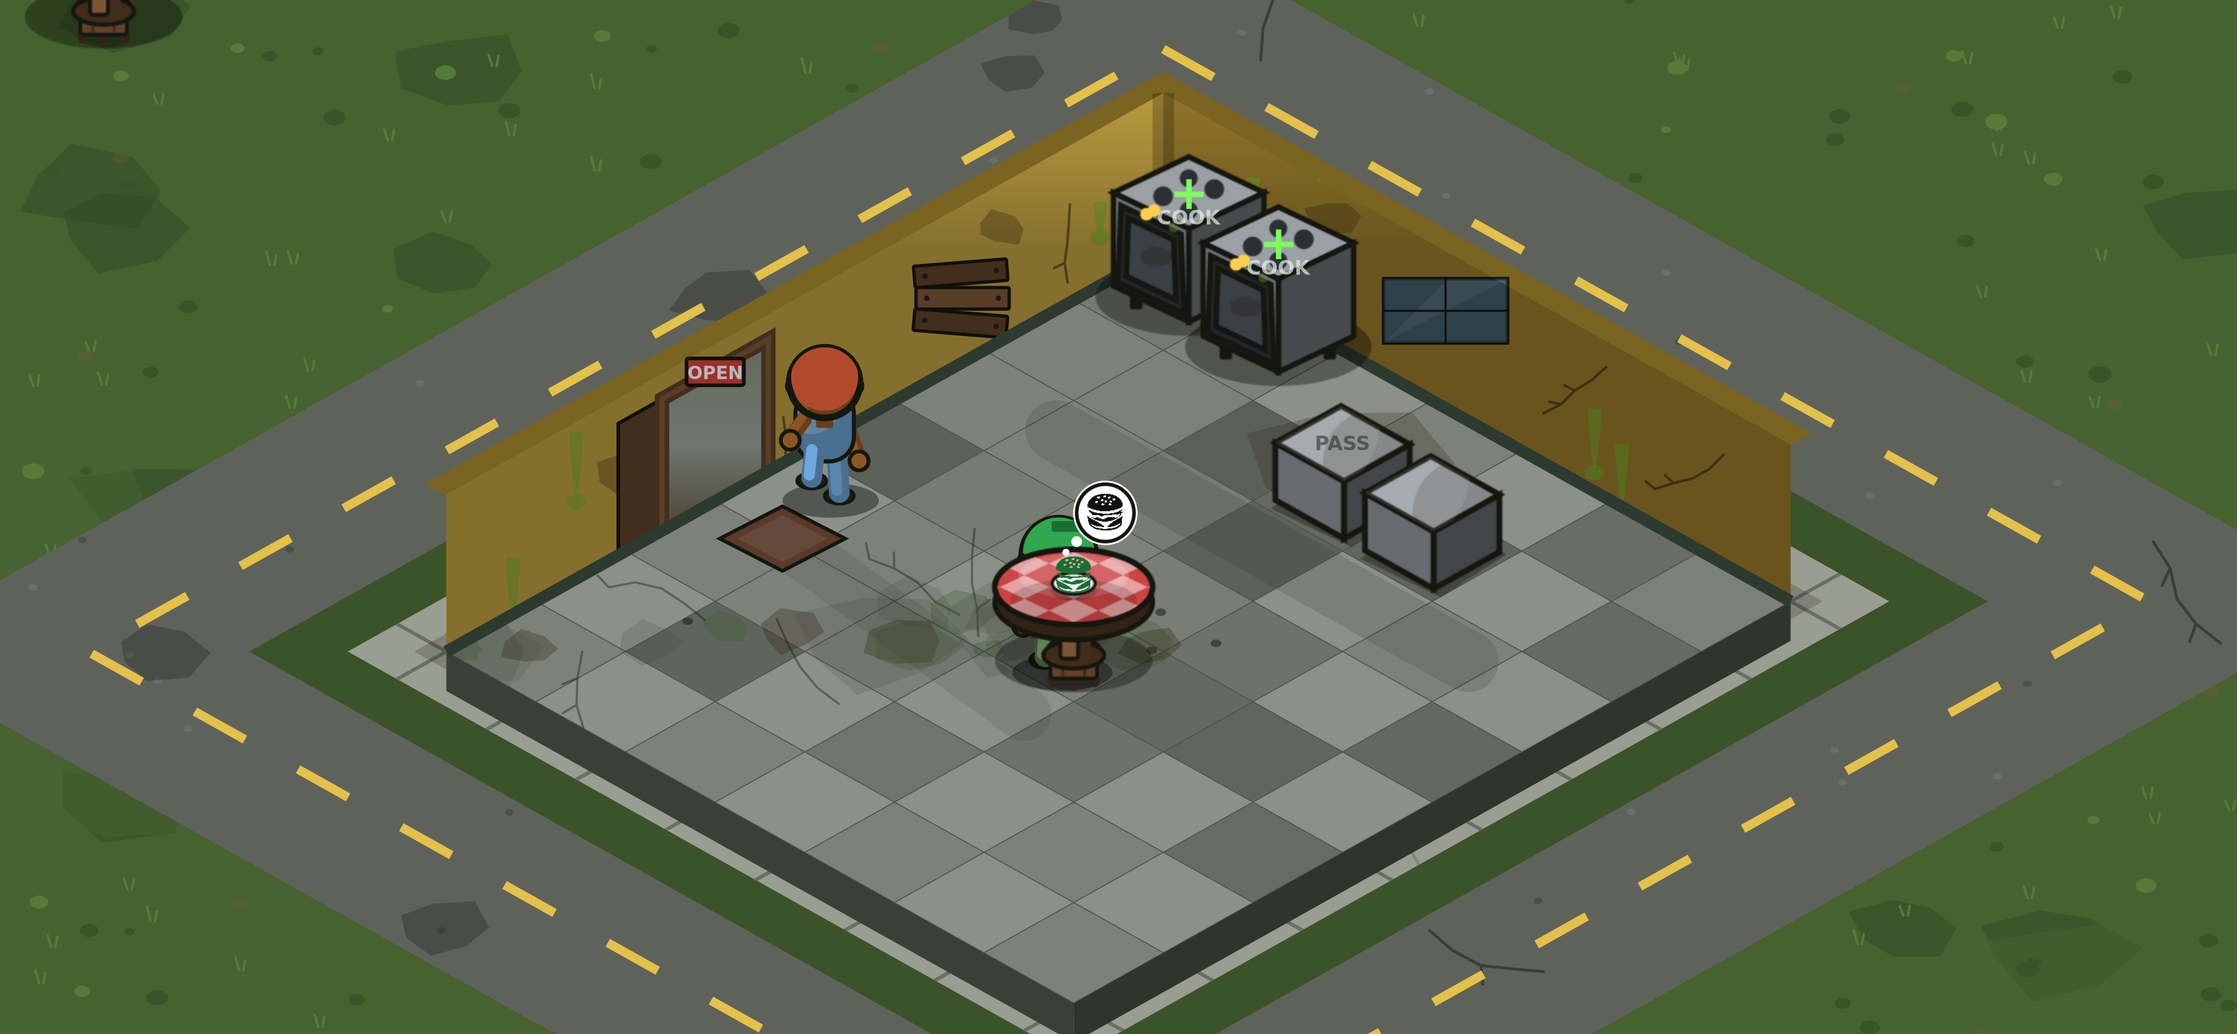
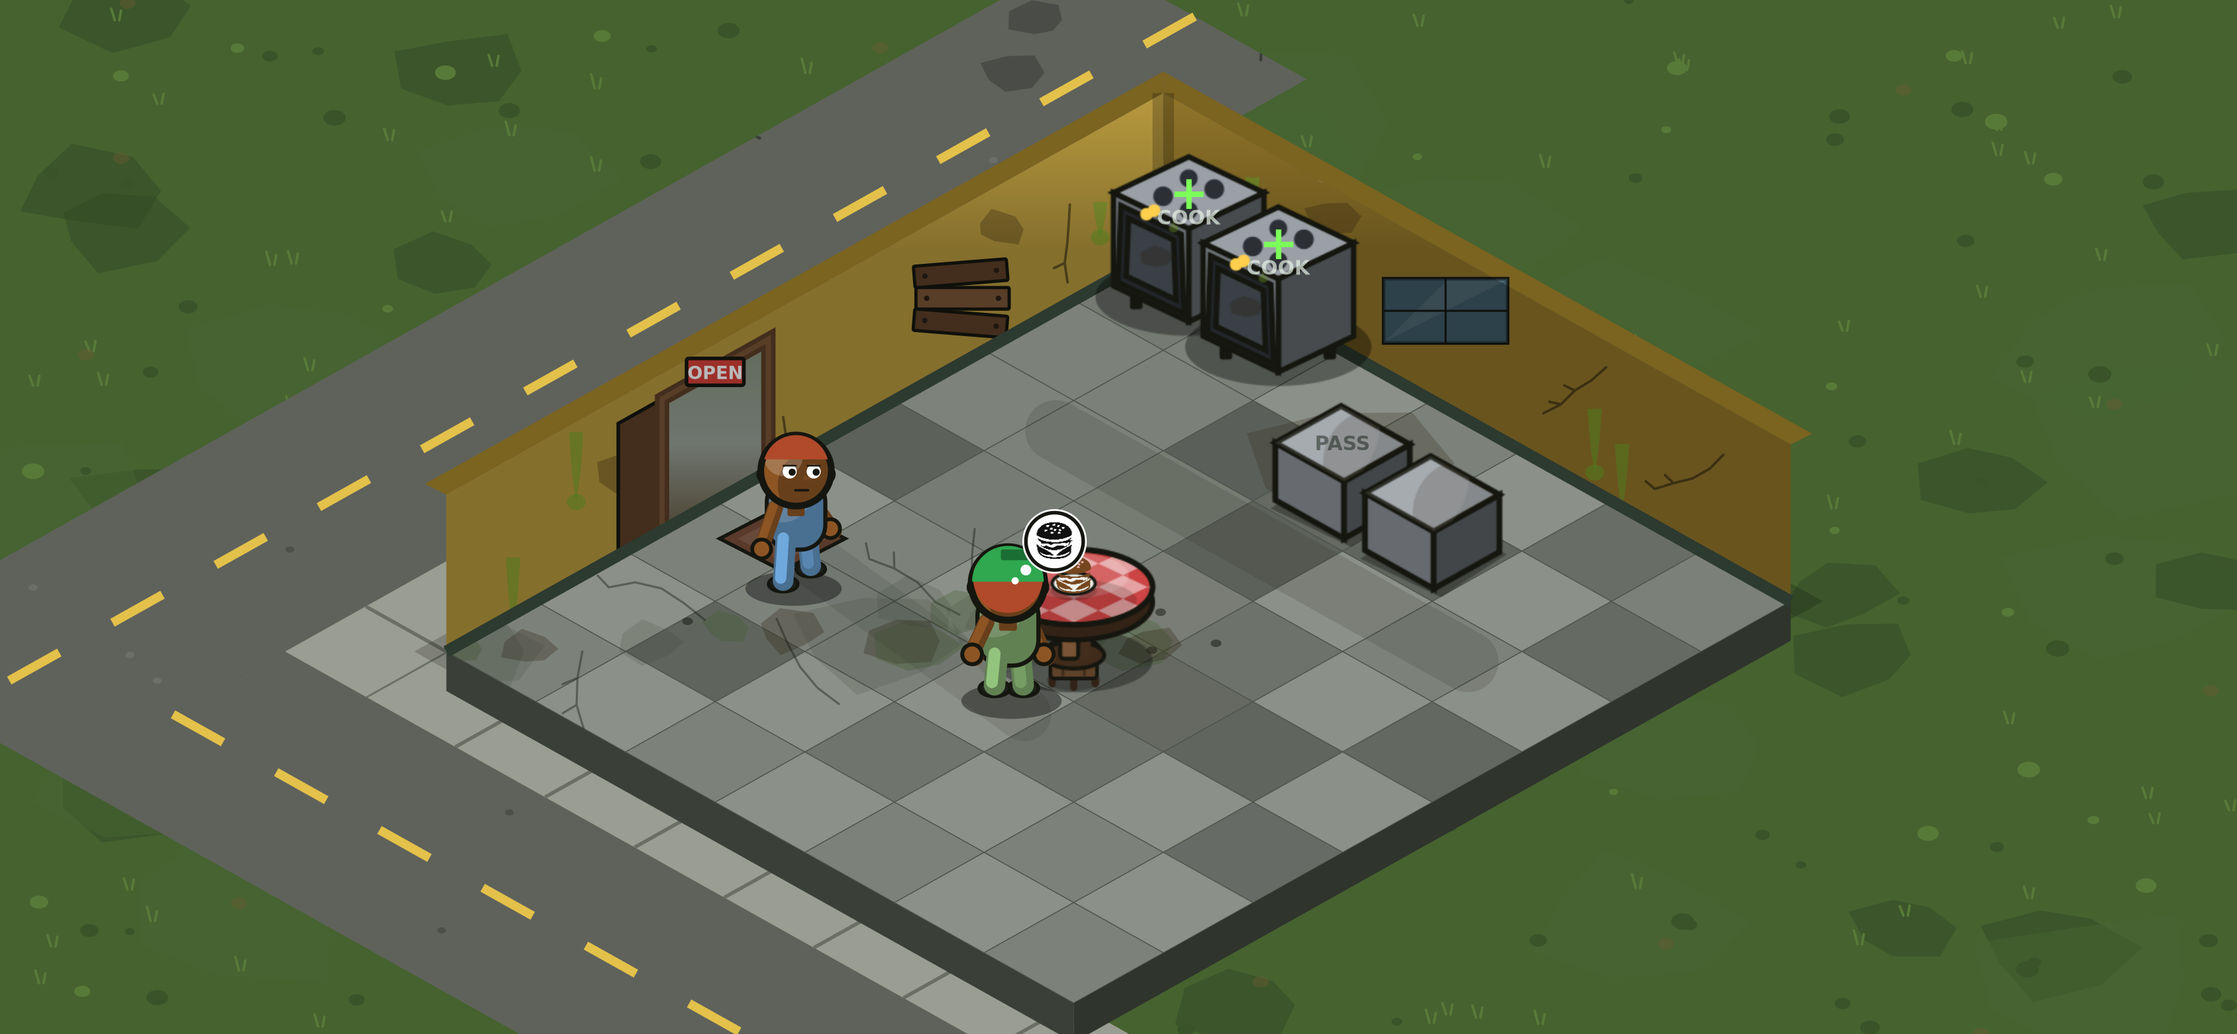
Corner-street map, chair-gap attachment rule, unique Brawler elite
- Exterior is now a street corner (roads on two sides, sidewalks between),
  with grass on the other sides as future expansion land — matches refs.
- Chairs sit on their own square south of their table with a visible gap;
  tables may pack side-by-side but each must keep one open chair side
  (chairState 'blocked' + layout warning). Starting tables respaced.
- New elite customer: Brawler — visually unique (gloves, mohawk, heavier
  build), $500 cash infect, Slugger zombie (atk 28, energy 150).
- Renderer: gloved-hand support in _char; single south-facing chair per
  table; natural depth sort for seated diners.
- Audit doc round 3: customer info cards (health cur/max, tip/atk stats,
  cash infect $500–$95k), raid sidewalk line-up + one-by-one deployment +
  ENERGIZE mid-raid recharge.
- Sprites rebaked, proofs reshot, 52/52 tests pass.

https://claude.ai/code/session_01PNHoqqSvj3UaeYPZXKA2ik

diff --git a/www/render.js b/www/render.js
@@ -130,10 +130,10 @@
     });
     world.stoves.forEach(function (st) { add(st.x + st.y + dvof(st.id), function () { self._stove(c, st, world, t, ui.selected && ui.selected.id === st.id); }); });
     if (!ui.edit) {
+      // diners now sit on the SOUTH chair square (in front of the table), so
+      // natural feet-position sorting handles them — no special-case depth
       world.customers.forEach(function (cu) {
-        var d = cu.x + cu.y, tb = (cu.table && (cu.state === 'waiting' || cu.state === 'eating' || cu.state === 'paying')) ? byTbId(world, cu.table) : null;
-        if (tb) d = tb.x + tb.y + dvof(tb.id) - 1;        // sit just behind our table
-        add(d, function () { self._customer(c, cu, world, t); });
+        add(cu.x + cu.y, function () { self._customer(c, cu, world, t); });
       });
       world.zombies.forEach(function (z) { if (!z.stored) add(z.x + z.y, function () { self._zombie(c, z, t); }); });
     }
@@ -234,26 +234,40 @@
       scatter(c, bb, 90, 13, function (x, y, r) { line(c, x, y, x - S * 0.02, y - S * 0.05 - r * S * 0.03); line(c, x + S * 0.025, y, x + S * 0.035, y - S * 0.055); });
       scatter(c, bb, 26, 17, function (x, y) { speck(c, x, y, S * 0.045, 'rgba(110,90,50,.4)'); });
     });
-    // road ring (asphalt): grain, cracks, oil patches — less perfect gray
-    c.fillStyle = C.road; this._planeRect(c, -T * 3.2, -T * 3.2, W + T * 3.2, H + T * 3.2); c.fill();
-    this._tex(c, function () { this._planeRect(c, -T * 3.2, -T * 3.2, W + T * 3.2, H + T * 3.2); }, function (bb) {
-      scatter(c, bb, 110, 21, function (x, y, r) { speck(c, x, y, S * 0.025, r > 0.5 ? C.roadD : '#6c6f68'); });
-      scatter(c, bb, 14, 41, function (x, y, r) { crackLine(c, x, y, S * 0.7, r * 6.28, S * 0.016, 'rgba(30,32,28,.55)'); });
-      scatter(c, bb, 10, 47, function (x, y, r) { stainBlob(c, x, y, S * (0.12 + r * 0.18), 'rgba(25,27,24,.3)'); });
-    });
-    // dashed centre line around the block
+    // CORNER STREET (per reference): roads run along TWO adjacent sides only —
+    // past the door wall (west) and along the front (south) — with sidewalk
+    // strips between the building and each road. The other sides stay grass:
+    // that's the open land the café expands into later.
+    var roadTex = function (x0, y0, x1, y1) {
+      c.fillStyle = C.road; self._planeRect(c, x0, y0, x1, y1); c.fill();
+      self._tex(c, function () { this._planeRect(c, x0, y0, x1, y1); }, function (bb) {
+        scatter(c, bb, 60, 21, function (x, y, r) { speck(c, x, y, S * 0.025, r > 0.5 ? C.roadD : '#6c6f68'); });
+        scatter(c, bb, 8, 41, function (x, y, r) { crackLine(c, x, y, S * 0.7, r * 6.28, S * 0.016, 'rgba(30,32,28,.55)'); });
+        scatter(c, bb, 6, 47, function (x, y, r) { stainBlob(c, x, y, S * (0.12 + r * 0.18), 'rgba(25,27,24,.3)'); });
+      });
+    };
+    roadTex(-T * 3.4, -T * 2.5, -T * 0.9, H + T * 3.4);            // west road (past the door wall)
+    roadTex(-T * 0.9, H + T * 0.9, W + T * 2.5, H + T * 3.4);      // south road (along the front)
+    // dashed centre line along each road
     c.save(); c.strokeStyle = C.roadLine; c.lineWidth = Math.max(2, S * 0.05); c.setLineDash([S * 0.32, S * 0.34]);
-    this._planeRect(c, -T * 2.0, -T * 2.0, W + T * 2.0, H + T * 2.0); c.stroke(); c.setLineDash([]); c.restore();
-    // grass verge
-    c.fillStyle = C.grassD; this._planeRect(c, -T * 1.1, -T * 1.1, W + T * 1.1, H + T * 1.1); c.fill();
-    // sidewalk ring with slab seams + cracks
-    c.fillStyle = C.walk; this._planeRect(c, -T * 0.55, -T * 0.55, W + T * 0.55, H + T * 0.55); c.fill();
-    this._tex(c, function () { this._planeRect(c, -T * 0.55, -T * 0.55, W + T * 0.55, H + T * 0.55); }, function (bb) {
-      c.strokeStyle = C.walkSeam; c.lineWidth = Math.max(1.2, S * 0.02);
-      for (var s = -1; s <= Math.ceil((W + T) / T) + 1; s++) { var p = self.project(s * T, -T); var q = self.project(s * T, H + T); line(c, p.x, p.y, q.x, q.y); var p2 = self.project(-T, s * T); var q2 = self.project(W + T, s * T); line(c, p2.x, p2.y, q2.x, q2.y); }
-      scatter(c, bb, 16, 33, function (x, y, r) { crackLine(c, x, y, S * 0.5, r * 6.28, S * 0.015, C.walkD); });
-    });
-    // a contact drop-shadow just inside the sidewalk so the building sits down
+    var l1a = this.project(-T * 2.15, -T * 2.5), l1b = this.project(-T * 2.15, H + T * 3.4);
+    c.beginPath(); c.moveTo(l1a.x, l1a.y); c.lineTo(l1b.x, l1b.y); c.stroke();
+    var l2a = this.project(-T * 0.9, H + T * 2.15), l2b = this.project(W + T * 2.5, H + T * 2.15);
+    c.beginPath(); c.moveTo(l2a.x, l2a.y); c.lineTo(l2b.x, l2b.y); c.stroke();
+    c.setLineDash([]); c.restore();
+    // sidewalk strips between the building and the two roads
+    var walkTex = function (x0, y0, x1, y1, vertical) {
+      c.fillStyle = C.walk; self._planeRect(c, x0, y0, x1, y1); c.fill();
+      self._tex(c, function () { this._planeRect(c, x0, y0, x1, y1); }, function (bb) {
+        c.strokeStyle = C.walkSeam; c.lineWidth = Math.max(1.2, S * 0.02);
+        if (vertical) { for (var s2 = Math.floor(y0 / T); s2 <= Math.ceil(y1 / T); s2++) { var pa = self.project(x0, s2 * T), pb = self.project(x1, s2 * T); line(c, pa.x, pa.y, pb.x, pb.y); } }
+        else { for (var s3 = Math.floor(x0 / T); s3 <= Math.ceil(x1 / T); s3++) { var pc2 = self.project(s3 * T, y0), pd = self.project(s3 * T, y1); line(c, pc2.x, pc2.y, pd.x, pd.y); } }
+        scatter(c, bb, 8, 33, function (x, y, r) { crackLine(c, x, y, S * 0.5, r * 6.28, S * 0.015, C.walkD); });
+      });
+    };
+    walkTex(-T * 0.9, -T * 0.9, 0, H + T * 0.9, true);             // west sidewalk
+    walkTex(0, H, W + T * 0.9, H + T * 0.9, false);                // south sidewalk
+    // a contact drop-shadow just inside the building edges so it sits down
     c.fillStyle = 'rgba(0,0,0,.18)'; this._planeRect(c, -T * 0.18, -T * 0.18, W + T * 0.18, H + T * 0.18); c.fill();
   };
   Renderer.prototype._walls = function (c) {
@@ -498,9 +512,10 @@
     if (this._selZ && tb.dirty && !tb.cleaning) this._hl(c, p.x, p.y + S * 0.08, S * 1.1, t || 0);
     if (!sel && this._blit(c, 'table_base', tb.x + vo.x, tb.y + vo.y)) return;   // sprite base (legs+chair+pedestal)
     c.fillStyle = 'rgba(0,0,0,.34)'; c.beginPath(); c.ellipse(p.x, y + S * 0.05, D.rx, D.ry * 0.85, 0, 0, 7); c.fill();   // contact shadow
-    // ONE chair per table (one dish = one diner): at the real SOUTH seat slot,
-    // exactly where the seated customer sits — visual capacity matches logic.
-    var q = this.project(tb.x + vo.x, tb.y + vo.y + 40);
+    // ONE chair per table, ATTACHED across a small gap on its own south square
+    // (like the reference) — you can always tell which chair belongs to which
+    // table, and side-by-side tables must keep this side open.
+    var q = this.project(tb.x + vo.x, tb.y + vo.y + 88);
     isoChair(c, q.x, q.y - lift, S, 0);
     // round pedestal base + column (lit left / dark right)
     c.fillStyle = shade(C.woodD, 0.7); c.beginPath(); c.ellipse(p.x, y + S * 0.02, S * 0.17, S * 0.075, 0, 0, 7); c.fill(); c.strokeStyle = C.out; c.lineWidth = S * 0.022; c.stroke();
@@ -750,7 +765,8 @@
     // 3. back arm (behind torso) + hand
     var armSwing = walk ? Math.sin(ph + Math.PI) * S * 0.06 : (cfg.hunch ? S * 0.03 : 0);
     limb(c, x + lean + S * 0.12, chestY + S * 0.03, x + lean + S * 0.2, chestY + S * 0.2 + armSwing, skin, skinD, S * 0.09);
-    hand(c, x + lean + S * 0.2, chestY + S * 0.21 + armSwing, S * 0.055, skin, skinD);
+    var gw = cfg.gloves ? S * 0.085 : S * 0.055, gc = cfg.gloves || skin, gd = cfg.gloves ? shade(cfg.gloves, 0.7) : skinD;
+    hand(c, x + lean + S * 0.2, chestY + S * 0.21 + armSwing, gw, gc, gd);
 
     // 4. torso (with apron for zombies)
     var tw = S * 0.34, th = S * 0.42, tx = x + lean - tw / 2, ty = chestY - th * 0.35;
@@ -771,7 +787,7 @@
     } else {
       var fa = walk ? Math.sin(ph) * S * 0.06 : 0;
       limb(c, x + lean - S * 0.12, chestY + S * 0.03, x + lean - S * 0.2, chestY + S * 0.2 + fa, skin, skinD, S * 0.09);
-      hand(c, x + lean - S * 0.2, chestY + S * 0.21 + fa, S * 0.055, skin, skinD);
+      hand(c, x + lean - S * 0.2, chestY + S * 0.21 + fa, gw, gc, gd);
     }
 
     // 6. neck + ears + head (a shaded ball, hunched slightly forward)
@@ -859,8 +875,9 @@
     var angry = (cu.state === 'waiting' && (world.t - cu.wait) > (world.custPatience ? world.custPatience(cu) : world.patience()) * 0.6) || (cu.state === 'queued' && cu.annoyed);
     if (this._selZ && cu.state === 'waiting' && !cu.assigned && this._foodReady) this._hl(c, p.x, p.y + S * 0.06, S * 0.8, t);
     var expr = (cu.state === 'paying' || cu.state === 'eating') ? 'happy' : angry ? 'angry' : 'neutral';
-    var BUILD = { worker: 1.14, elder: 0.84, athlete: 1.0, punk: 1.04, oddball: 1.2, rich: 1.02, business: 1.04, tourist: 1.0, cook: 1.06, civilian: 0.96 };
-    this._char(c, cu, t, { skin: cu.skin, skinD: shade(cu.skin, 0.74), clothes: cu.color, hunch: false, zombie: false, expr: expr, hair: cu.hair || '#2b2b2b', hat: cu.hat, walk: walk, build: BUILD[cu.type] || 1 });
+    var BUILD = { worker: 1.14, elder: 0.84, athlete: 1.0, punk: 1.04, oddball: 1.2, rich: 1.02, business: 1.04, tourist: 1.0, cook: 1.06, civilian: 0.96, brawler: 1.16 };
+    var TY2 = (window.CUSTOMER_TYPES || []).filter(function (t2) { return t2.id === cu.type; })[0] || {};
+    this._char(c, cu, t, { skin: cu.skin, skinD: shade(cu.skin, 0.74), clothes: cu.color, hunch: false, zombie: false, expr: expr, hair: cu.hair || '#2b2b2b', hat: cu.hat, walk: walk, build: BUILD[cu.type] || 1, gloves: TY2.gloves });
     // thought bubbles — deferred to the icon layer so the world never covers them
     var by = p.y - S * 0.82, bx = p.x + S * 0.26, df = this._defer || [];
     if (cu.state === 'waiting') {

diff --git a/www/world.js b/www/world.js
@@ -89,7 +89,7 @@
     this.cafeName = 'The Rotten Spoon';
     this.stoves = [ this._mkStove(0), this._mkStove(1) ];
     this.decors = [];
-    this.tables = [ this._mkTable(0), this._mkTable(5), this._mkTable(2) ];
+    this.tables = [ this._mkTable(0), this._mkTable(2), this._mkTable(4) ];   // row 2, spaced — each keeps its south chair square open
     this.chairs = [];
     this.customers = [];
     this.zombies = [ this._mkZombie(0) ];
@@ -99,15 +99,15 @@
   // Each table is linked to one chair (the seat at its front edge). Chairs are
   // authoritative: a customer reserves then occupies a specific chair, never
   // just a table. Dirty/unreachable tables block their chairs.
-  // A chair snaps to a SEAT SLOT on the south edge of its table: the customer
-  // sits at (sitX,sitY) facing the table, the plate appears on the tabletop, and
-  // workers serve/clean from the interaction tile beside it. sitPoint is offset
-  // from the tile centre so the chair reads as tucked at the table, not centred.
+  // A chair ATTACHES to its table across a small gap on the ADJACENT SOUTH
+  // square (its own tile, like the reference): the diner walks onto that square
+  // and sits facing the table. Tables may pack side-by-side as long as this
+  // chair square stays free — that's the "one open side per table" rule.
   World.prototype._mkChair = function (tb) {
     return { id: uid(), table: tb.id, side: 'S', facing: 'U',
-      c: Math.floor(tb.x / TILE), r: Math.floor(tb.y / TILE),
-      x: tb.x, y: tb.y + 22,                    // sit point (south seat)
-      plateX: tb.x, plateY: tb.y - 4,           // plate on the tabletop
+      c: Math.floor(tb.x / TILE), r: Math.floor(tb.y / TILE) + 1,   // the square SOUTH of the table
+      x: tb.x, y: tb.y + 88,                    // sit point: on that square, gap from the table edge
+      plateX: tb.x, plateY: tb.y - 4,           // plate stays on the tabletop
       by: null, reserved: null };
   };
   World.prototype.chairSitPoint = function (ch) { return { x: ch.x, y: ch.y }; };
@@ -118,8 +118,8 @@
     this.tables.forEach(function (tb) { tids[tb.id] = tb; });
     // drop chairs whose table is gone
     this.chairs = this.chairs.filter(function (ch) { return tids[ch.table]; });
-    // keep chair tile/sitPoint in sync with its (possibly moved) table
-    this.chairs.forEach(function (ch) { var tb = tids[ch.table]; ch.c = Math.floor(tb.x / TILE); ch.r = Math.floor(tb.y / TILE); ch.x = tb.x; ch.y = tb.y + 20; });
+    // keep the chair on the adjacent SOUTH square of its (possibly moved) table
+    this.chairs.forEach(function (ch) { var tb = tids[ch.table]; ch.c = Math.floor(tb.x / TILE); ch.r = Math.floor(tb.y / TILE) + 1; ch.x = tb.x; ch.y = tb.y + 88; });
     // ensure each table that should have a chair has exactly one
     this.tables.forEach(function (tb) {
       if (tb.noChair) return;
@@ -131,6 +131,10 @@
     var tb = byId(this.tables, ch.table);
     if (!tb) return 'invalidNoTable';
     if (tb.dirty || tb.cleaning) return 'blocked';
+    // the chair square itself must stay free for the chair to CONNECT — tables
+    // may pack side-by-side only while one side remains open for the seat
+    if (this._blockedTiles()[ch.c + ',' + ch.r]) return 'blocked';
+    if (!this.inBounds(ch.c, ch.r)) return 'blocked';
     if (!this.reachableTable(tb)) return 'unreachable';
     if (ch.by) return 'occupied';
     if (ch.reserved) return 'reserved';
@@ -789,8 +793,10 @@
   // Build validation (Phase 12): flag tables a customer can no longer walk to,
   // or a door whose front is walled off. Returns human-readable problems.
   World.prototype.layoutWarnings = function () {
-    var out = [], i;
+    var out = [], i, self = this;
     for (i = 0; i < this.tables.length; i++) if (!this.reachableTable(this.tables[i])) out.push('A table is blocked off — customers can\'t reach it.');
+    // every table needs its chair square free (one open side per table)
+    this.chairs.forEach(function (ch) { if (self.chairState(ch) === 'blocked' && !byId(self.tables, ch.table).dirty) out.push('A table has no room for its chair — keep one side open.'); });
     // door reachable to at least one table?
     var blocked = this._blockedTiles(), dc = Math.floor(DOOR.x / TILE), dr = Math.floor(DOOR.y / TILE);
     if (blocked[dc + ',' + dr]) out.push('The entrance is blocked!');

diff --git a/www/data.js b/www/data.js
@@ -109,6 +109,11 @@ window.CUSTOMER_TYPES = [
   { id: 'oddball',  name: 'Oddball',      rarity: 'elite',  weight: 2,  levelReq: 5, ratingReq: 3.5,
     pay: 1.5, tip: 0.50, patience: 1.2, infect: { toxin: 6 }, shirt: '#5fae8f', hat: 'wizard',
     z: { role: 'Cryptid', speed: 1.35, serve: 1.35, clean: 1.35, cook: 1.35, attack: 25, maxEnergy: 140, patience: 1.4, rarity: 'elite', trait: 'Eldritch' } },
+  // Rare fighters are VISUALLY unique (gloves, mohawk crest, heavier build) and
+  // read as raid material at a glance: terrible tipper, monster in a fight.
+  { id: 'brawler',  name: 'Brawler',      rarity: 'elite',  weight: 3,  levelReq: 3, ratingReq: 2.5,
+    pay: 1.0, tip: 0.05, patience: 0.8, infect: { cash: 500 }, shirt: '#8a2f2f', hat: 'mohawk', gloves: '#c43a2e',
+    z: { role: 'Slugger', speed: 1.3, serve: 1.0, clean: 0.9, cook: 0.9, attack: 28, maxEnergy: 150, patience: 0.7, rarity: 'elite', trait: 'Knockout' } },
 ];
 
 /*

diff --git a/www/demostates.js b/www/demostates.js
@@ -16,7 +16,7 @@
 
   function seat(world, tb, state, typeIdx, face) {
     var ty = TYPES[typeIdx % TYPES.length];
-    var cx = tb.x, cy = tb.y + 20;
+    var cx = tb.x, cy = tb.y + 88;          // on the chair square south of the table
     var c = {
       id: 'demo-' + tb.id, x: cx, y: cy, tx: cx, ty: cy, fx: cx, fy: cy, path: [], table: tb.id,
       state: state, wait: world.t - 3, eat: world.t - 2, payAt: world.t - 1, pay: 14, xp: 6, dish: 'burger',

diff --git a/docs/original-game-audit.md b/docs/original-game-audit.md
@@ -212,6 +212,56 @@ earnings/hr**, Fancy second for cash. This created real build-choice depth.
   stat bonuses; money-generator props (ATM-style); expansion tiers toward a
   large max grid.
 
+## 6. Round 3 — reference-screenshot findings (verified from owner-supplied refs)
+
+These came from direct observation of original-game screenshots; treat them as
+ground truth where they conflict with wiki text.
+
+### Map / exterior
+- The café sits on a **street corner**: road runs along **two sides only**
+  (not a ring). The remaining sides are **grass — that grass is the
+  expansion land** the player buys square-by-square. *(Adopted: corner-street
+  ground in our renderer; expansion tiers stay P2.)*
+
+### Customer identity & info cards
+- Every customer **type** has its own info card with: a **health bar shown as
+  cur/max** (e.g. a common at 85/85, an armored elite at 350/350), **Tip
+  Rating**, **Attack Speed**, **Attack Strength**, one line of flavor text,
+  and an **infect cost in CASH** that scales hugely with rarity — roughly
+  **$500** for a tough common (the Boxer) up to **$95,000** for the Knight in
+  Armor. Health on the card doubles as the zombie's energy pool when
+  infected.
+- **Rare customers are visually unmistakable** — the Boxer wears gloves, the
+  Knight wears full plate. They are not palette swaps of the base walker.
+  *(Adopted: Brawler elite with unique gloves/mohawk/build + cash infect cost;
+  more uniques to follow.)*
+
+### Tables & chairs
+- **One chair per table** — one dish on the table, one diner. The chair
+  **attaches to a specific table across a small gap**, sitting on its own
+  square adjacent to the table, so ownership is visually obvious.
+- Tables **can pack side-by-side**, but each table must keep **one open side
+  for its chair** to connect. *(Adopted: chair-as-attachment on the south
+  square + 'blocked' chairState + layout warning.)*
+
+### Raid deployment & mid-raid recharge
+- Your raid squad **lines up outside on the sidewalk** of the target café.
+  You deploy zombies **one at a time** by selecting them — not as a blob.
+- The raid UI on a selected zombie offers **ATTACK**, **INFO**, and
+  **ENERGIZE**: Energize spends toxin to **recharge that zombie's energy
+  mid-raid** (energy is HP, so this is a mid-fight heal). *(P1: drives the
+  raid battle-scene design — sidewalk line-up, one-by-one send-in, Energize
+  button.)*
+
+### Updated adoption list (delta from §5)
+- **Done now**: corner-street exterior; chair-gap attachment + one-open-side
+  rule; first visually-unique elite customer (Brawler) with cash infect.
+- **P1 (raid scene spec is now concrete)**: sidewalk line-up → one-by-one
+  deployment → ATTACK / ENERGIZE (toxin → energy) / INFO per zombie.
+- **P1 add**: per-type customer stat cards (health cur/max, tip rating, atk
+  speed/strength, flavor text, cash infect cost) surfaced in the infect
+  panel and Zombiepedia.
+
 ## Sources
 - [Zombie Cafe — Wikipedia](https://en.wikipedia.org/wiki/Zombie_Cafe)
 - [Zombie Cafe Wiki (Fandom) — main](https://zombiecafe.fandom.com/wiki/Zombie_Cafe), [Energy level](https://zombiecafe.fandom.com/wiki/Energy_level), [Toxin](https://zombiecafe.fandom.com/wiki/Toxin), [Recipe](https://zombiecafe.fandom.com/wiki/Recipe), [Raid](https://zombiecafe.fandom.com/wiki/Raid), [Rating](https://zombiecafe.fandom.com/wiki/Rating), [Customers](https://zombiecafe.fandom.com/wiki/Customers), [Zombie](https://zombiecafe.fandom.com/wiki/Zombie), [Gacha](https://zombiecafe.fandom.com/wiki/Gacha), [Couch Potato](https://zombiecafe.fandom.com/wiki/Couch_Potato), [Astronaut](https://zombiecafe.fandom.com/wiki/Astronaut), [Composer](https://zombiecafe.fandom.com/wiki/Composer)
